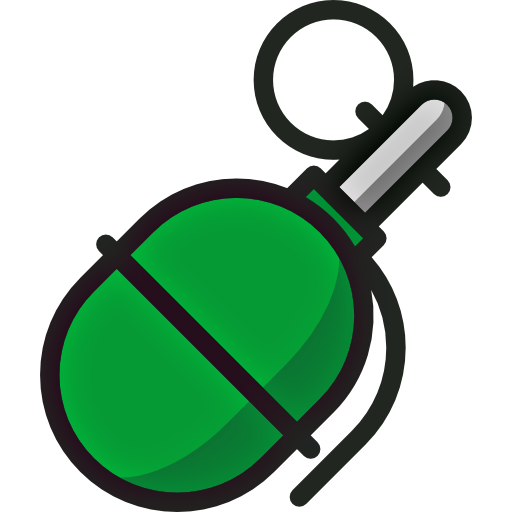
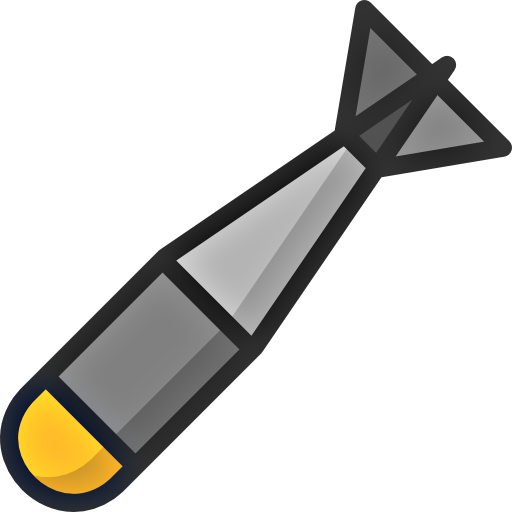
dynamite graphics changed, granade graphics changed

diff --git a/src/scenes/GamePlayScene.ts b/src/scenes/GamePlayScene.ts
@@ -1571,6 +1571,17 @@ export class GamePlayScene extends Container implements IScene {
 			sprite.width = this.playerGroundBombSize.width;
 			sprite.height = this.playerGroundBombSize.height;
 
+			switch (Constants.SELECTED_PLAYER_GROUND_BOMB_TEMPLATE) {
+				case PlayerGroundBombTemplate.DYNAMITE: {
+					sprite.width = this.playerGroundBombSize.width / 1.3;
+					sprite.height = this.playerGroundBombSize.height / 1.3;
+				} break;
+				default: {
+					sprite.width = this.playerGroundBombSize.width;
+					sprite.height = this.playerGroundBombSize.height;
+				} break;
+			}
+
 			sprite.anchor.set(0.5, 0.5);
 			gameObject.addChild(sprite);
 
@@ -1649,7 +1660,7 @@ export class GamePlayScene extends Container implements IScene {
 
 							if (playerGroundBomb.awaitMoveUpRight) {
 								playerGroundBomb.moveUpRight();
-								playerGroundBomb.moveUpRight();								
+								playerGroundBomb.moveUpRight();
 								playerGroundBomb.rotate(RotationDirection.Forward, 0, 10);
 							}
 							else if (playerGroundBomb.awaitMoveDownLeft) {

diff --git a/src/objects/PlayerGroundBomb.ts b/src/objects/PlayerGroundBomb.ts
@@ -54,14 +54,19 @@ export class PlayerGroundBomb extends GameObjectContainer {
 		this.alpha = 1;
 		this.scale.set(1);
 
-		if (this.playerGroundBombTemplate == PlayerGroundBombTemplate.DYNAMITE) {
-			this.angle = Constants.getRandomNumber(-45, 45);
-		}
-		else {
-			this.angle = 0;
+		switch (this.playerGroundBombTemplate) {
+			case PlayerGroundBombTemplate.GRENADE: {
+				this.angle = -45;
+			} break;
+			case PlayerGroundBombTemplate.TRASH_BIN: {
+				this.angle = 0;
+			} break;
+			case PlayerGroundBombTemplate.DYNAMITE: {
+				this.angle = 0;// Constants.getRandomNumber(33, 213);
+			} break;
 		}
 
-		this.speed = Constants.DEFAULT_CONSTRUCT_SPEED / 3;
+		this.speed = Constants.DEFAULT_CONSTRUCT_SPEED / 3.2;
 		this.isDroppedOnGround = false;
 
 		this.awaitMoveDownLeft = false;
